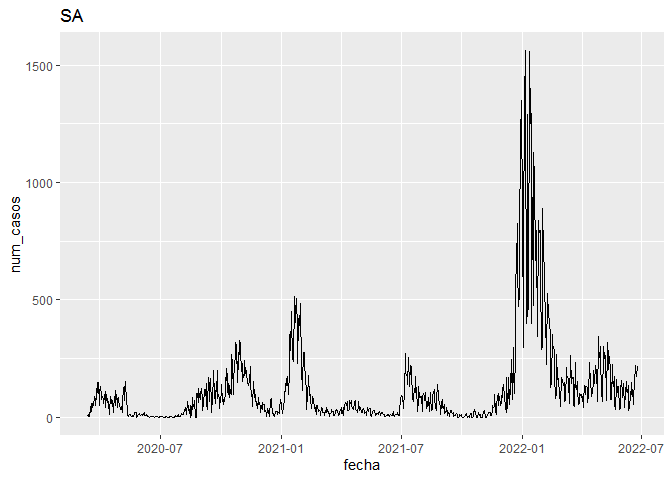
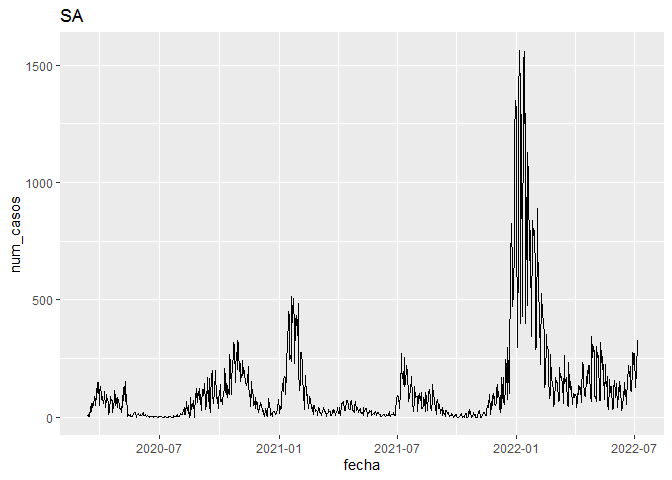
update

diff --git a/README.md b/README.md
@@ -1,7 +1,7 @@
 Covid-19: Incidencia acumulada
 ================
 JMSS \[Usal - CIC\]
-(updated: 25 jun 2022)
+(updated: 06 jul 2022)
 
 ### Incidencia acumulada del Covid19 por cada 100.000 habitantes
 
